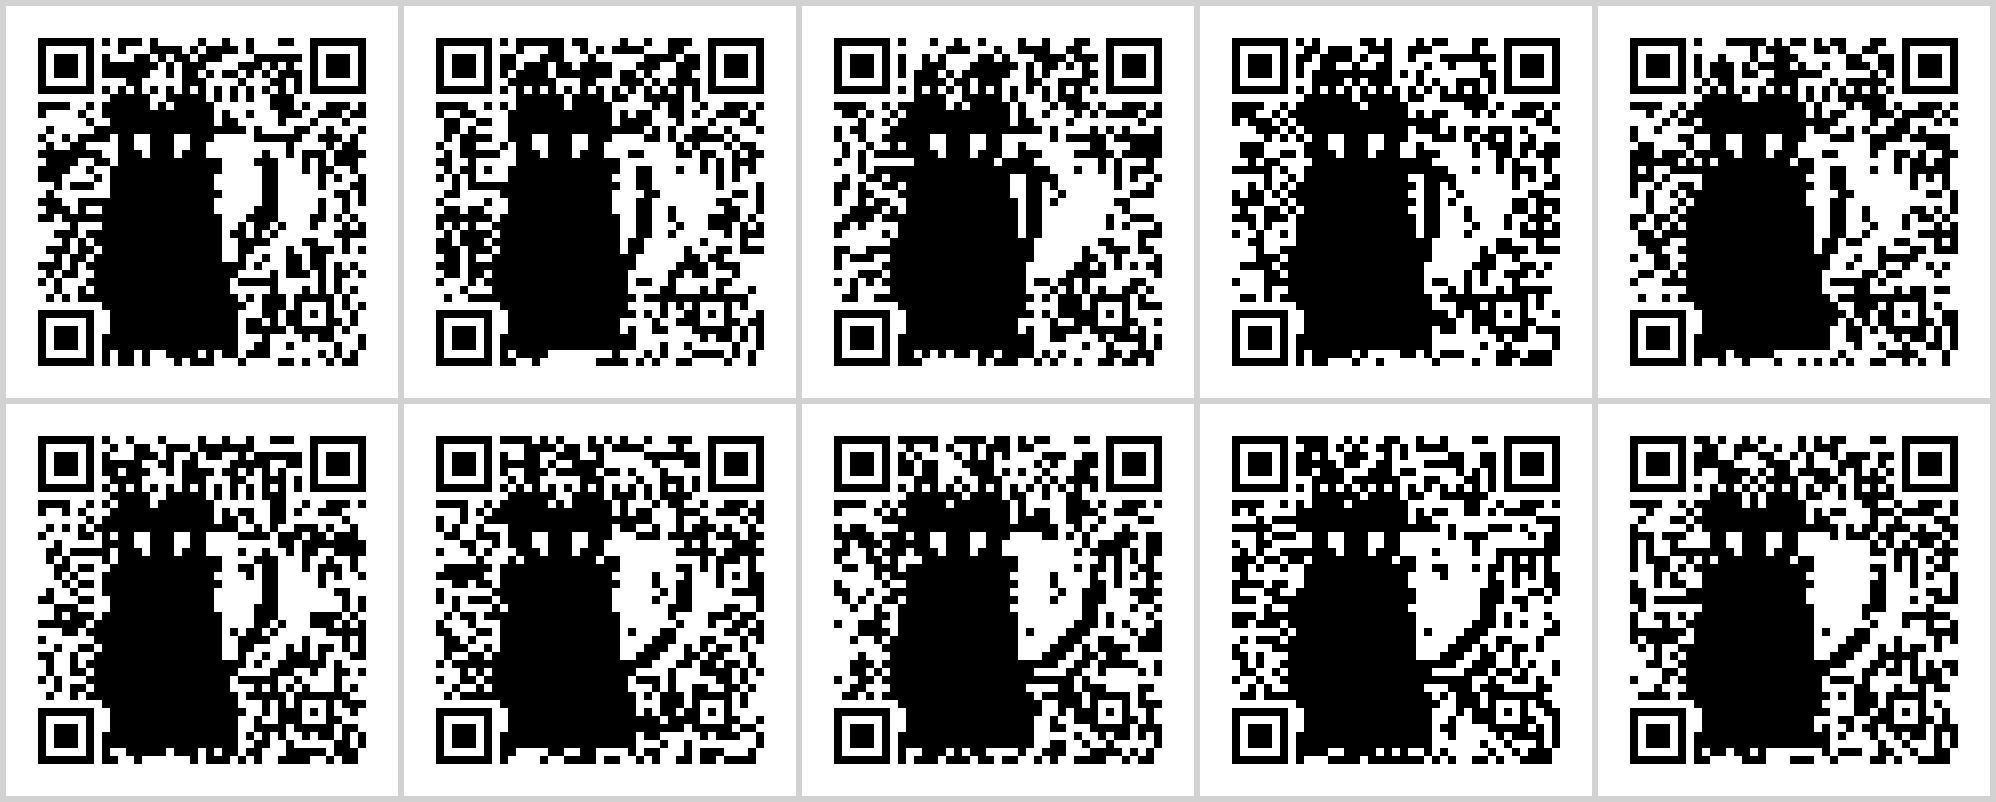
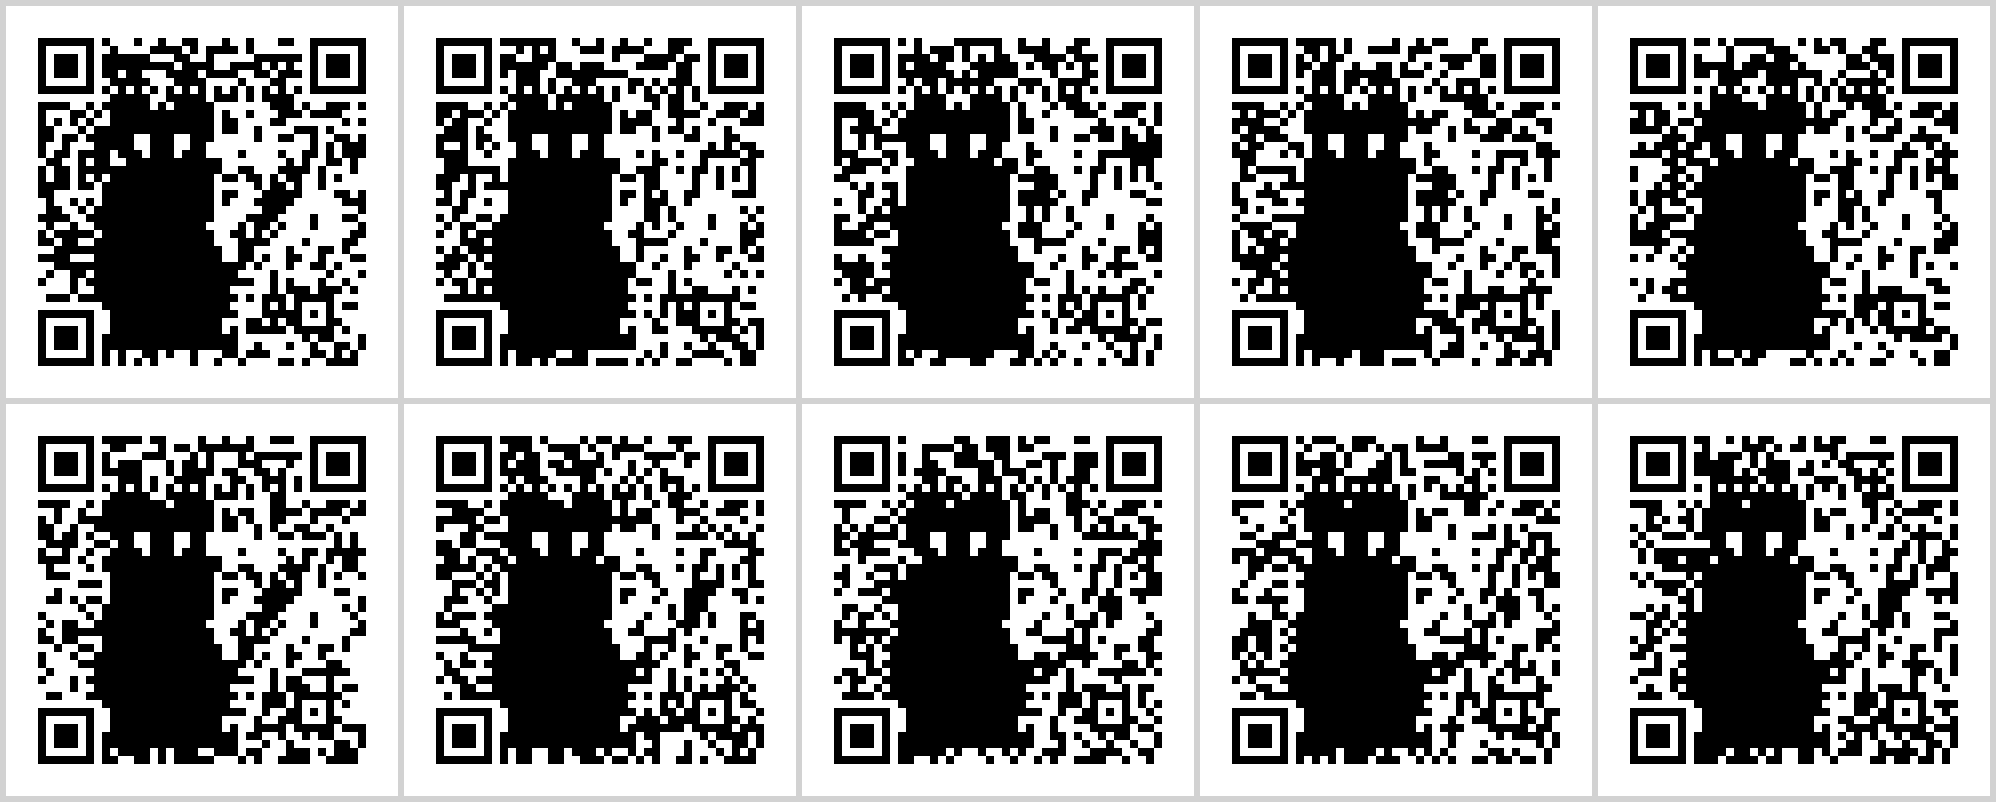
WIP: piece revisions in flight
Claude-Session: https://claude.ai/code/session_0158kcuAWabeTm161BUonDiU

diff --git a/hex/wild-qr/out/animated-report.md b/hex/wild-qr/out/animated-report.md
@@ -1,44 +1,56 @@
 # Piece 3 — animated code: build report
 
 - URL: `https://github.com/minigolf2000/cat-games` (v6, level L, urlCase schemehost)
-- 10 frames @ 100ms, looping APNG (upng-js, lossless truecolor)
+- 10 frames @ 100ms, looping APNG via upng-js.
+  UPNG auto-picked a lossless 2-colour palette (round-trip is byte-exact,
+  see below), acTL num_plays = 0 (loops forever).
 - Mask **fixed at 3** across all frames; EC level fixed at L.
+  Fixed mask chosen empirically: it keeps the figure byte-identical and
+  the furniture rock-steady (see furniture check). Varying the mask would
+  reseed the whole rendered field and risk visible boiling for no gain.
+- **Flip budget 0** (margin 0). The pure Gauss-Jordan solve is already a
+  valid codeword with zero RS errors, so every block keeps full headroom
+  (9/9) AND no deliberate flip can disturb the figure between frames.
 - Render: scale 8, quiet 4, black on white.
-- Restarts/frame: 24, best-of by (pins satisfied, min headroom).
+- Restarts/frame: 6 (noise-only; pins/headroom are seed-invariant here).
 
 ## Constancy
 
 - Figure (head/body/ears/eyes) pinned modules: 462
-- Figure modules that differ across frames: **5** (BOILING in frames 1)
-- Total modules that vary across frames (the animated area): 629
+- Figure modules that differ across frames: **0** (byte-identical — figure does not boil)
+- Function-pattern (finder/timing/alignment) modules differing across frames: **0** (furniture is rock-steady)
+- Total modules that vary across frames (the animated tail + shimmer ground): 532
+- Figure "ink scratch" holes (pins the right-side codeword rank can't
+  satisfy exactly): 11 of 462 figure modules, **identical every
+  frame** (constant, so they read as scratchiness, not boiling).
 
 ## Per-frame acceptance meter
 
 | frame | pins | flips | per-block headroom | min head | jsQR@8 | jsQR@3 |
 | --- | --- | --- | --- | --- | --- | --- |
-| 0 | 623/645 | 34 | 2 / 9 | 2 | ok | ok |
-| 1 | 625/645 | 35 | 2 / 9 | 2 | ok | ok |
-| 2 | 623/645 | 34 | 2 / 9 | 2 | ok | ok |
-| 3 | 623/645 | 34 | 2 / 9 | 2 | ok | ok |
-| 4 | 625/645 | 35 | 2 / 9 | 2 | ok | ok |
-| 5 | 623/645 | 34 | 2 / 9 | 2 | ok | ok |
-| 6 | 624/645 | 33 | 2 / 9 | 2 | ok | ok |
-| 7 | 624/645 | 30 | 2 / 9 | 2 | ok | ok |
-| 8 | 624/645 | 30 | 2 / 9 | 2 | ok | ok |
-| 9 | 624/645 | 33 | 2 / 9 | 2 | ok | ok |
+| 0 | 650/729 | 0 | 9 / 9 | 9 | ok | ok |
+| 1 | 652/729 | 0 | 9 / 9 | 9 | ok | ok |
+| 2 | 653/729 | 0 | 9 / 9 | 9 | ok | ok |
+| 3 | 653/729 | 0 | 9 / 9 | 9 | ok | ok |
+| 4 | 652/729 | 0 | 9 / 9 | 9 | ok | ok |
+| 5 | 650/729 | 0 | 9 / 9 | 9 | ok | ok |
+| 6 | 653/729 | 0 | 9 / 9 | 9 | ok | ok |
+| 7 | 649/729 | 0 | 9 / 9 | 9 | ok | ok |
+| 8 | 649/729 | 0 | 9 / 9 | 9 | ok | ok |
+| 9 | 653/729 | 0 | 9 / 9 | 9 | ok | ok |
 
 Per-block detail (used/cap):
 
-- f0: 7/9  0/9
-- f1: 7/9  0/9
-- f2: 7/9  0/9
-- f3: 7/9  0/9
-- f4: 7/9  0/9
-- f5: 7/9  0/9
-- f6: 7/9  0/9
-- f7: 7/9  0/9
-- f8: 7/9  0/9
-- f9: 7/9  0/9
+- f0: 0/9  0/9
+- f1: 0/9  0/9
+- f2: 0/9  0/9
+- f3: 0/9  0/9
+- f4: 0/9  0/9
+- f5: 0/9  0/9
+- f6: 0/9  0/9
+- f7: 0/9  0/9
+- f8: 0/9  0/9
+- f9: 0/9  0/9
 
 ## Round-trip (APNG decode -> compare to source render -> jsQR)
 

diff --git a/hex/wild-qr/out/diamond-cat-report.md b/hex/wild-qr/out/diamond-cat-report.md
@@ -4,10 +4,10 @@ Generated by `build-02-diamond-cat.mjs` (reproducible; seeds noise=13270183, fli
 
 ## Symbol
 - URL: `https://github.com/minigolf2000/cat-games`
-- Version 5, level L (37x37), mask 2 (chosen by pins-then-headroom).
+- Version 5, level L (37x37), mask 1 (chosen by pins-then-headroom).
 - urlCase: schemehost (verified with allowSchemeHostCase).
-- Decoded (case-remixed, RFC-3986 equivalent): `HTtPS://GIThub.com/minigolf2000/cat-games`
-- Pins honored: 118/126 (93.7%), flips: 33, freeDim: 508.
+- Decoded (case-remixed, RFC-3986 equivalent): `HTTps://githUB.CoM/minigolf2000/cat-games`
+- Pins honored: 177/196 (90.3%), flips: 36, freeDim: 478.
 
 ## Per-block meter (honest validate() decode)
 - blk0: 10/13 codewords used — 3 headroom
